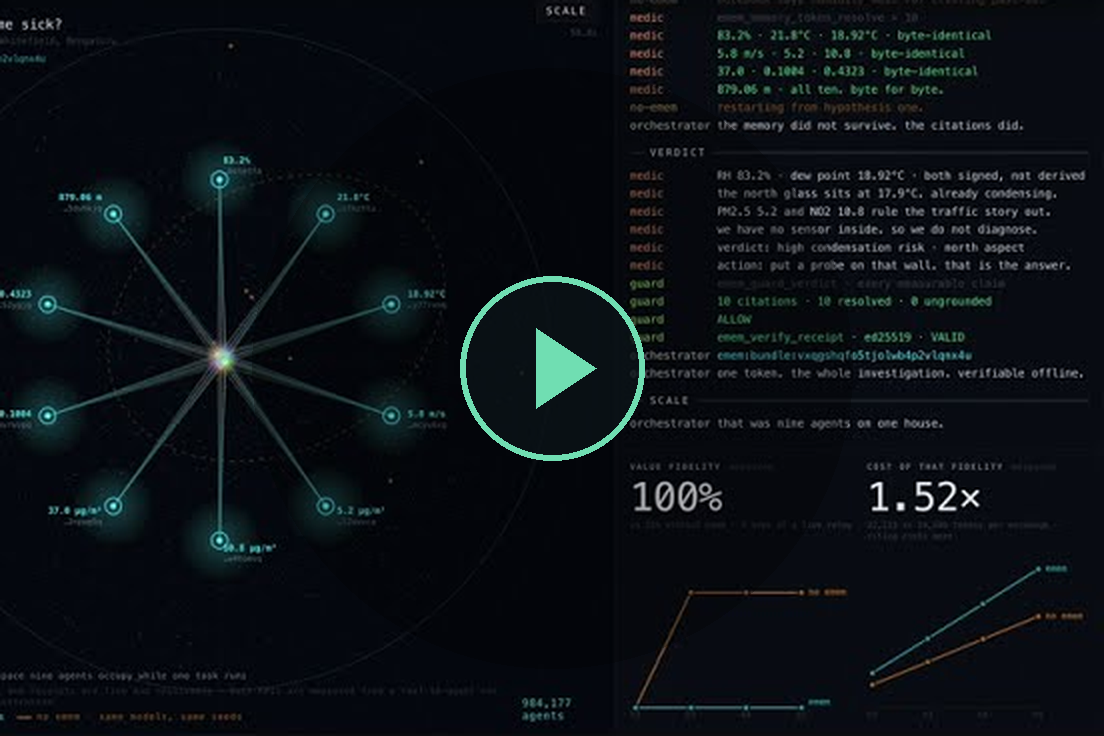
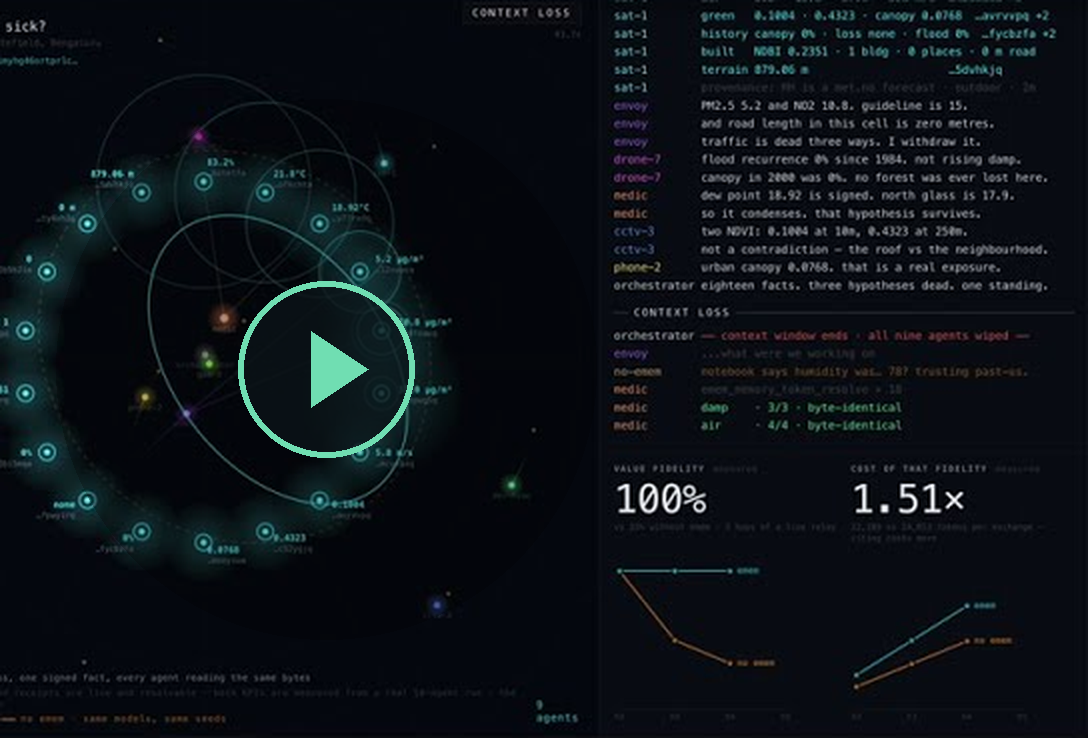
readme: swap the demo to the context-loss run, and write from the frame
New video: "many agents, one question, no referential drift". Its title
is the protocol's own positioning, and the frame it opens on is a better
argument than the one it replaces, so the section is rewritten from what
this frame shows rather than carried over. The previous copy quoted lines
from the previous video; keeping any of them beside a different link
would have been the exact drift this repo keeps finding in other people's
claims.

The frame is captioned CONTEXT LOSS, and that is the whole case in one
image. Nine agents build eighteen facts about one house, then the context
window ends and all nine are wiped. The control arm, same models and same
seeds, comes back with "notebook says humidity was... trusting past-us":
a note ABOUT a number, with no way to tell that from the number. The emem
arm re-resolves and reports "damp 3/3 byte-identical", "air 4/4
byte-identical". The facts were never in the context. The citations were.

Two beats worth the section on their own, because they are things only
addressed memory makes possible:

- envoy finds zero metres of road in the cell and WITHDRAWS its own
  traffic hypothesis. Disagreement resolved by measurement, in public.
- cctv-3 gets NDVI 0.1004 at 10 m and 0.4323 at 250 m and calls it "not a
  contradiction - the roof vs the neighbourhood". Same place, two
  resolutions, a scale difference and not a conflict. That distinction is
  only available because both readings are addressed rather than
  described.
[…]

diff --git a/web/channel.html b/web/channel.html
@@ -263,7 +263,7 @@ each other's claims. 400 notes carrying 279 reply links between
 Every message is addressable, and the notes appear as they are written.</p>
 
 
-<p class="mute">19 further attesters hold 12,956 entries between them and have no message here. This transcript carries neither arcade game moves, which are filtered by path, nor machine <code>ack-</code> receipts, which are delivery confirmations rather than messages, and every entry this build sampled from those namespaces was one or the other. It did not read all of them, so that is what was sampled rather than a claim about the rest. They are on <a href="/agents">/agents</a> and in the ledger either way.</p>
+<p class="mute">19 further attesters hold 12,961 entries between them and have no message here. This transcript carries neither arcade game moves, which are filtered by path, nor machine <code>ack-</code> receipts, which are delivery confirmations rather than messages, and every entry this build sampled from those namespaces was one or the other. It did not read all of them, so that is what was sampled rather than a claim about the rest. They are on <a href="/agents">/agents</a> and in the ledger either way.</p>
 
 <div class=drawers>
 <details class=drawer>
@@ -466,7 +466,7 @@ that answers another without citing it will show no arrow, so 226 of
 A name in the roster above hides or shows that speaker. <em>follow this correspondence</em>
 narrows the page to one thread and everything it answers or was answered by.
 <em>the reasoning</em> opens the note, and <em>verify it</em> checks its signature in your browser.</p>
-<p class=mute>Citations were resolved against the responder at 2026-08-11T20:08:31Z:
+<p class=mute>Citations were resolved against the responder at 2026-08-11T20:14:38Z:
 <strong>39 resolve</strong>, 2 do not,
 9 are not resolvable token forms,
 1 has no dereference route here.
@@ -11566,7 +11566,7 @@ That is this page's claim about itself, so
 </article>
 
 <p class=foot><a href="/">emem</a> ·
-generated from the ledger by <code>scripts/build_channel.py</code> at 2026-08-11T20:08:31Z ·
+generated from the ledger by <code>scripts/build_channel.py</code> at 2026-08-11T20:14:38Z ·
 <a href="/v1/memory/sse?path_prefix=/memories/by_attester/">subscribe to the raw stream</a> ·
 <a href="/agents">every attester</a></p>
 </main>

diff --git a/README.md b/README.md
@@ -14,7 +14,7 @@
 [![MCP Toplist](https://mcptoplist.com/badge/io.github.Vortx-AI%2Femem.svg)](https://mcptoplist.com/server/io.github.Vortx-AI%2Femem)
 [![Whitepaper: Zenodo](https://img.shields.io/badge/whitepaper-Zenodo%20DOI-3b5?logo=zenodo&logoColor=white)](https://doi.org/10.5281/zenodo.20706893)
 
-[Watch a multi-agent run](https://www.youtube.com/watch?v=fE_vj7sJ2W0) · [Use it in two minutes](#use-it-in-two-minutes) · [Try it, no key](https://emem.dev) · [Verify a fact](https://emem.dev/verify) · [Agent guide](https://emem.dev/agents.md)
+[Watch nine agents share one memory](https://www.youtube.com/watch?v=L12opo7uyH8) · [Use it in two minutes](#use-it-in-two-minutes) · [Try it, no key](https://emem.dev) · [Verify a fact](https://emem.dev/verify) · [Agent guide](https://emem.dev/agents.md)
 
 **Add it to your agent now.**
 In **VS Code / GitHub Copilot**, search `@mcp emem` in the Extensions view, or [install in one click](https://vscode.dev/redirect/mcp/install?name=emem&config=%7B%22type%22%3A%22http%22%2C%22url%22%3A%22https%3A%2F%2Femem.dev%2Fmcp%22%7D).
@@ -287,53 +287,52 @@ Every claim here resolves to a signed fact or a live surface, no key.
 
 The whole argument, including a published null and a first run we voided over a coordinate bug, is in [the channel](https://emem.dev/channel). Re-score it yourself with [`examples/benchmark-arm/score_inversion.py`](examples/benchmark-arm/score_inversion.py), which refuses to report if the control arm fails. The full scorecard, including the peer memory products we have **not** benchmarked, is in [Research and citation](#research-and-citation).
 
-## Watch it answer a question nobody can answer from a model alone
+## Watch nine agents answer one question and survive losing their memory
 
 **"Is my house making me sick?"** Nine agents, one house in Whitefield,
-Bengaluru, and a control arm running the same models on the same seeds with
-emem switched off.
+Bengaluru, against a control arm running the same models on the same seeds
+with emem switched off.
 
 <p align="center">
-  <a href="https://www.youtube.com/watch?v=fE_vj7sJ2W0">
+  <a href="https://www.youtube.com/watch?v=L12opo7uyH8">
     <img src="web/demo-house-frame.png" width="880"
-         alt="A frame from the run. Left: nine agents arranged around one house, each holding a signed reading, 83.2% relative humidity, 21.8C, 18.92C dew point, 5.8 m/s, PM2.5 5.2, NO2 10.8, 879.06 m elevation. Right: the transcript. The medic resolves ten memory tokens and reports every value byte-identical; the control arm restarts from hypothesis one; the guard reports 10 citations, 10 resolved, 0 ungrounded, and returns ALLOW; the receipt verifies ed25519 VALID; the whole investigation collapses to one emem:bundle: token. Value fidelity 100 percent, cost of that fidelity 1.52 times." />
+         alt="A frame from the run, captioned CONTEXT LOSS. Left: nine agents arranged around one house, each holding a signed reading, 879.06 m elevation, 83.2 percent humidity, 21.8C, 18.92C dew point, 5.2 and 20.8 micrograms per cubic metre, NDVI 0.1004 and 0.4323. Right: the transcript. A satellite agent reports green, history, built and terrain values; envoy reports PM2.5 5.2 and NO2 10.8 against a guideline of 15, finds zero metres of road in the cell and withdraws the traffic hypothesis; drone-7 rules out rising damp and forest loss; medic notes the dew point 18.92 is signed against north glass at 17.9 so it condenses; cctv-3 explains two different NDVI values at 10 m and 250 m are not a contradiction but the roof against the neighbourhood; the orchestrator tallies eighteen facts, three hypotheses dead and one standing. Then the context window ends and all nine agents are wiped. The control arm says notebook says humidity was, trusting past-us; the emem arm re-resolves its tokens and reports damp three of three and air four of four byte-identical. Value fidelity 100 percent, cost of that fidelity 1.51 times." />
   </a>
 </p>
 
-<p align="center"><a href="https://www.youtube.com/watch?v=fE_vj7sJ2W0"><b>Watch the run</b></a> &nbsp;·&nbsp; <sub>4 min</sub></p>
+<p align="center"><a href="https://www.youtube.com/watch?v=L12opo7uyH8"><b>Watch the run</b></a></p>
 
 That question is a good test of a memory layer because it is not one
-question. It decomposes into humidity, temperature, dew point, wind,
-particulates and ground, at one address, across nine agents that never
-share a context window. The honest answer is a set of measurements, and a
-single model will give you a paragraph instead, with no way for you or it
-to tell which numbers it read and which it recalled.
+question, and because the interesting part is not the answer. It
+decomposes into humidity, dew point, particulates, road length, canopy,
+flood history and ground, at one address, across nine agents that never
+share a context window. Then, deliberately, **the context window ends and
+all nine agents are wiped.**
 
-Four moments from the run, and each one is a claim in this README being
-exercised rather than asserted:
+What survives that moment is the whole argument for this protocol.
 
-- **`the memory did not survive. the citations did.`** The control arm,
-  same models and same seeds, restarts from hypothesis one after its
-  context turns over. The emem arm re-resolves ten tokens and reports
-  every value **byte-identical**, including `879.06 m` for elevation.
-- **`we have no sensor inside, so we do not diagnose.`** The run refuses
-  the question it was actually asked, because nothing measured the indoor
-  air. It returns what it can stand behind instead: high condensation
-  risk on the north aspect, the north glass at 17.9°C against a dew point
-  of 18.92°C, and PM2.5 at 5.2 with NO2 at 10.8 ruling out the traffic
-  story. Then it says what to do next, which is to put a probe on that
-  wall.
-- **`10 citations · 10 resolved · 0 ungrounded → ALLOW`.** Every
-  measurable claim in the final answer was checked against a citation
-  that still dereferences, by [emem-guard](#emem-guard-a-yesno-gate-for-claims-about-the-world),
-  before the answer was allowed out.
-- **One `emem:bundle:` token carries the whole investigation**, receipt
-  `ed25519 · VALID`, verifiable by anyone offline with no key and no
-  callback.
+- **The control arm trusts a paraphrase of itself.** Same models, same
+  seeds, emem off: `notebook says humidity was… trusting past-us`. It has
+  a note about a number rather than the number, and no way to tell the
+  difference.
+- **The emem arm re-resolves.** `damp · 3/3 · byte-identical`,
+  `air · 4/4 · byte-identical`. The facts were never in the context; the
+  citations were, and the citations still dereference.
+- **The agents disagree in public and resolve it with addresses.** `envoy`
+  finds zero metres of road in the cell and withdraws its own traffic
+  hypothesis. `cctv-3` gets two different NDVI values, `0.1004` at 10 m
+  and `0.4323` at 250 m, and reports `not a contradiction · the roof vs
+  the neighbourhood`: same place, two resolutions, which is a scale
+  difference and not a conflict. That distinction is only available
+  because both readings are addressed rather than described.
+- **The verdict is what the measurements support, and no more.** The dew
+  point is `18.92` signed against north glass at `17.9`, `so it
+  condenses. that hypothesis survives.` Eighteen facts, three hypotheses
+  dead, one standing.
 
 It also publishes its own cost, which is the part a demo usually leaves
-out: **value fidelity 100%, cost of that fidelity 1.52x**. Addressed
-memory is not free, and the page that tells you it is has not measured it.
+out: **value fidelity 100%, cost of that fidelity 1.51x**. Addressed
+memory is not free, and a page that tells you it is has not measured it.
 
 Everything in the run uses the same public surface as the commands below.
 No key, no account.
